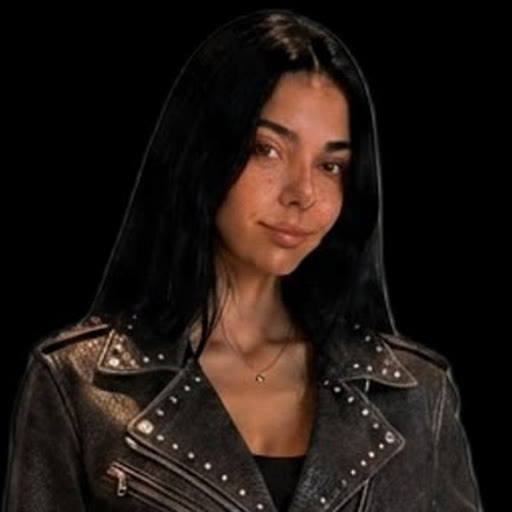
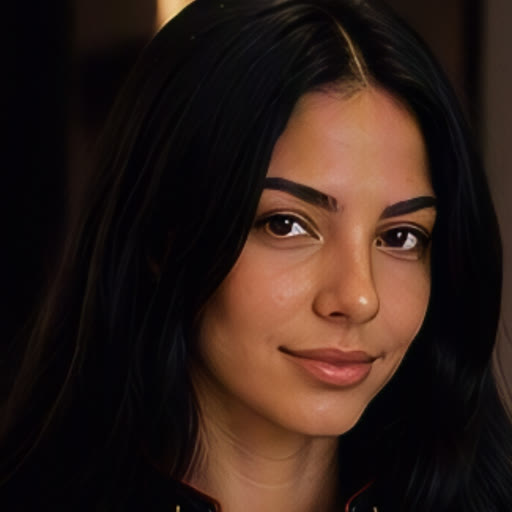
Rosario's new portrait
Claude-Session: https://claude.ai/code/session_01NUuBYkUe8iPceQSpgtuLGn

diff --git a/lens/sw.js b/lens/sw.js
@@ -1,6 +1,6 @@
 /* Lunara Lens service worker. The app shell works offline; the AI
    calls and the register never come from a cache. */
-const CACHE = 'lens-v3';
+const CACHE = 'lens-v4';
 const SHELL = ['rosario.jpg', 'voice/en/activated.mp3', 'voice/en/allowance.mp3', 'voice/en/breathe_in.mp3', 'voice/en/breathe_out.mp3', 'voice/en/calm.mp3', 'voice/en/checking_file.mp3', 'voice/en/done.mp3', 'voice/en/emergency.mp3', 'voice/en/goodbye.mp3', 'voice/en/guide_off.mp3', 'voice/en/guide_on.mp3', 'voice/en/hello.mp3', 'voice/en/hello_back.mp3', 'voice/en/hold.mp3', 'voice/en/index.json', 'voice/en/link_risky.mp3', 'voice/en/link_safe.mp3', 'voice/en/listening.mp3', 'voice/en/magnifier.mp3', 'voice/en/mark_done.mp3', 'voice/en/no_licence.mp3', 'voice/en/no_mark.mp3', 'voice/en/no_notes.mp3', 'voice/en/not_caught.mp3', 'voice/en/note_saved.mp3', 'voice/en/offline.mp3', 'voice/en/okay.mp3', 'voice/en/one_moment.mp3', 'voice/en/paywall.mp3', 'voice/en/pending.mp3', 'voice/en/qr_found.mp3', 'voice/en/reading.mp3', 'voice/en/reminder_now.mp3', 'voice/en/reminder_set.mp3', 'voice/en/safe_word.mp3', 'voice/en/saved.mp3', 'voice/en/scanning.mp3', 'voice/en/signed_in.mp3', 'voice/en/thinking.mp3', 'voice/en/translating.mp3', 'voice/en/try_saying.mp3', 'voice/en/wake_off.mp3', 'voice/en/wake_on.mp3', 'voice/en/welcome_owner.mp3', 'voice/es/activated.mp3', 'voice/es/allowance.mp3', 'voice/es/breathe_in.mp3', 'voice/es/breathe_out.mp3', 'voice/es/calm.mp3', 'voice/es/checking_file.mp3', 'voice/es/done.mp3', 'voice/es/emergency.mp3', 'voice/es/goodbye.mp3', 'voice/es/guide_off.mp3', 'voice/es/guide_on.mp3', 'voice/es/hello.mp3', 'voice/es/hello_back.mp3', 'voice/es/hold.mp3', 'voice/es/index.json', 'voice/es/link_risky.mp3', 'voice/es/link_safe.mp3', 'voice/es/listening.mp3', 'voice/es/magnifier.mp3', 'voice/es/mark_done.mp3', 'voice/es/no_licence.mp3', 'voice/es/no_mark.mp3', 'voice/es/no_notes.mp3', 'voice/es/not_caught.mp3', 'voice/es/note_saved.mp3', 'voice/es/offline.mp3', 'voice/es/okay.mp3', 'voice/es/one_moment.mp3', 'voice/es/paywall.mp3', 'voice/es/pending.mp3', 'voice/es/qr_found.mp3', 'voice/es/reading.mp3', 'voice/es/reminder_now.mp3', 'voice/es/reminder_set.mp3', 'voice/es/safe_word.mp3', 'voice/es/saved.mp3', 'voice/es/scanning.mp3', 'voice/es/signed_in.mp3', 'voice/es/thinking.mp3', 'voice/es/translating.mp3', 'voice/es/try_saying.mp3', 'voice/es/wake_off.mp3', 'voice/es/wake_on.mp3', 'voice/es/welcome_owner.mp3', 'app.html', 'lens.css', 'lens-i18n.js', 'lens-mark.js', 'lens-forensics.js', 'lens-app.js', 'icon-192.png', 'manifest.webmanifest', '../lunara-pricing.js'];
 self.addEventListener('install', (e) => { e.waitUntil(caches.open(CACHE).then((c) => c.addAll(SHELL)).then(() => self.skipWaiting())); });
 self.addEventListener('activate', (e) => { e.waitUntil(caches.keys().then((ks) => Promise.all(ks.filter((k) => k !== CACHE).map((k) => caches.delete(k)))).then(() => self.clients.claim())); });

diff --git a/lens/get.html b/lens/get.html
@@ -18,7 +18,7 @@
   <header class="top"><a class="brand" href="/lens.html"><img src="icon-192.png" alt=""><b>Lunara Lens</b></a></header>
   <main class="screen">
     <div class="hero">
-      <div class="orb" style="pointer-events:none"><img src="rosario.jpg" alt="Rosario"></div>
+      <div class="orb" style="pointer-events:none"><img src="rosario.jpg?v=2" alt="Rosario"></div>
       <h1 class="rname">Rosario for Android</h1>
       <p class="rsub wide" id="lede">For Lunara Lens members. Checking your account…</p>
     </div>
